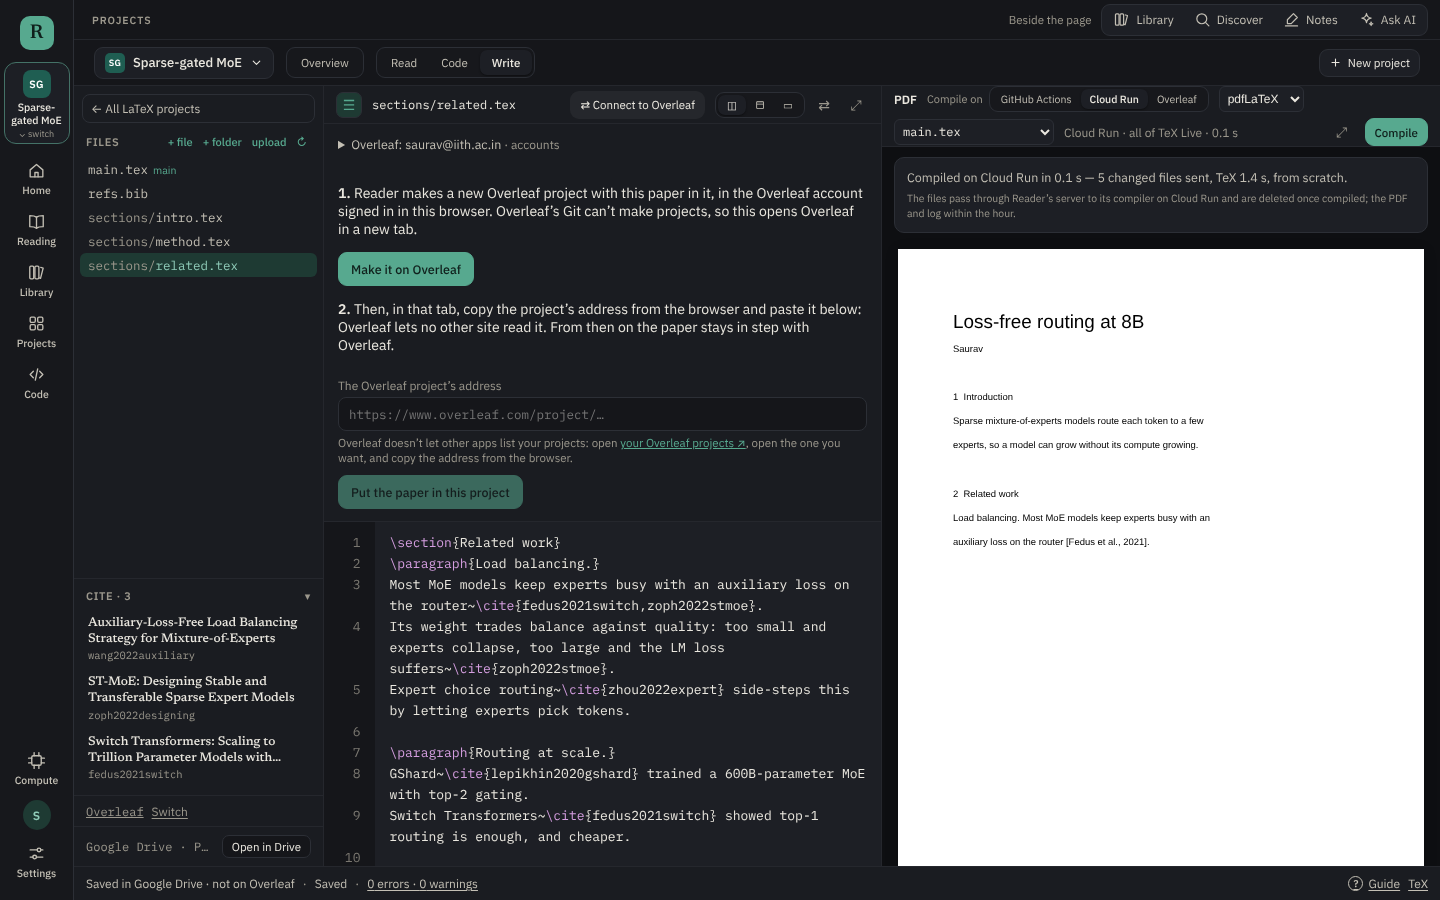
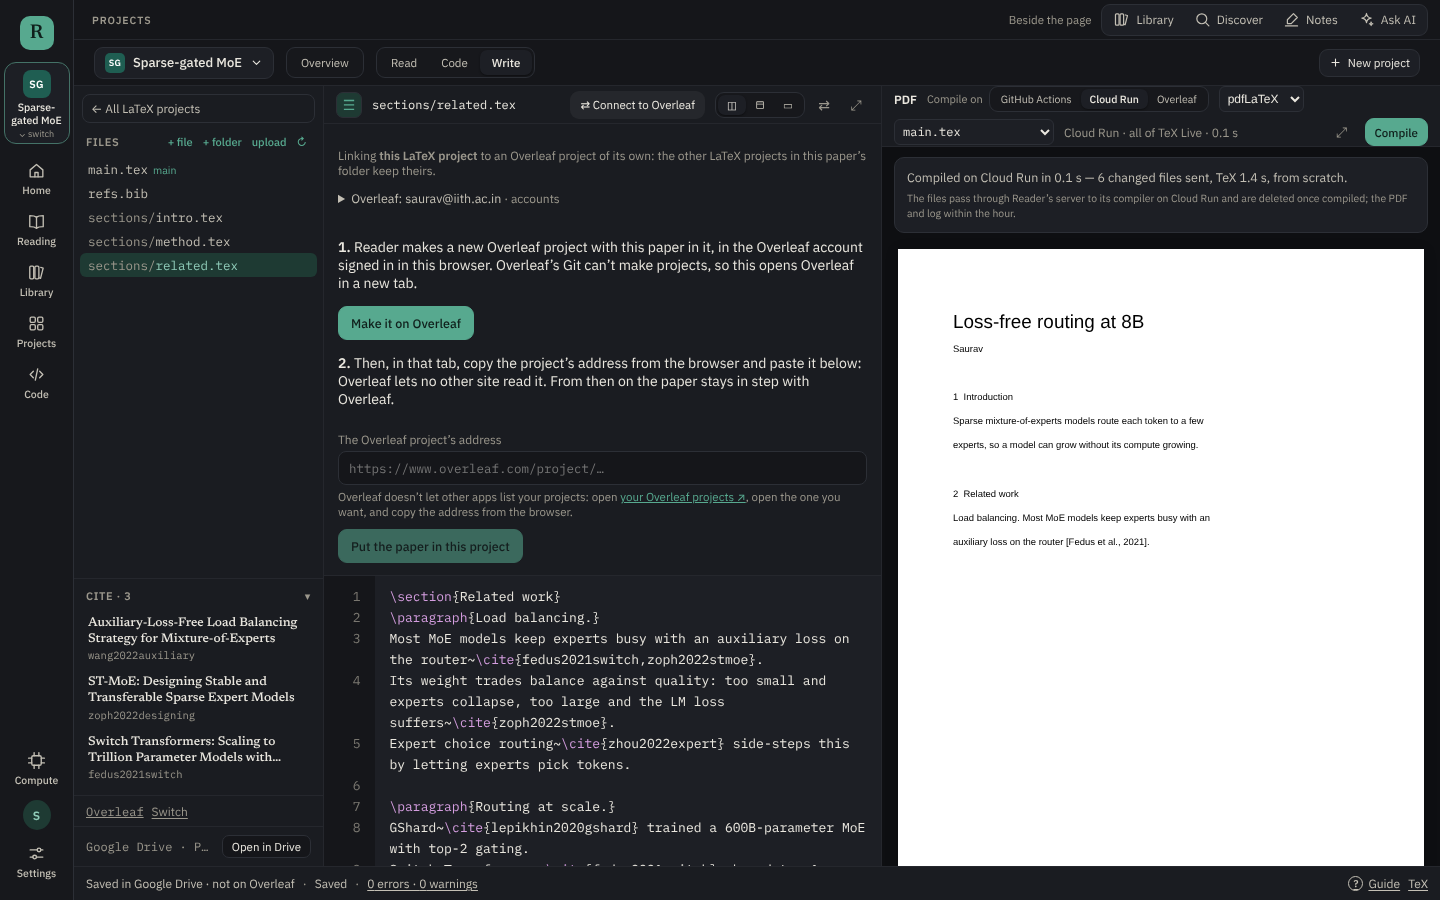
Overleaf links per LaTeX project, in the card and the editor
- Connect to Overleaf in the editor links only the open LaTeX project,
  from the paper's whole Drive folder, including LaTeX projects in folders
  of their own (it was hidden for those).
- The paper card's Overleaf status, Open in Overleaf and Sync with
  Overleaf go by the LaTeX project last written in; with several, it lists
  each one's own Overleaf project.
- Sync with Overleaf on the card opens that LaTeX project with its link
  panel open; the home's folder-wide "Put it on Overleaf" only shows when
  the folder has a single LaTeX project.
- The place remembered is the file from the top of the paper's folder.

Claude-Session: https://claude.ai/code/session_01EK97U4HuEDfpZxHH8nzPX2

Changed region(s): [[0.2188, 0.1556, 0.5938, 0.9644]]

diff --git a/src/components/Write.tsx b/src/components/Write.tsx
@@ -524,7 +524,8 @@ function LocalWrite({ project, onView }: { project: Project; onView: (view: View
   // The LaTeX project last open, as the tab opens (unless the paper card asked for the home); the home a click back.
   const [scope, setScope] = useState<PaperScope | null>(null);
   const [asked] = useState(() => takeWriteHome(project.id));
-  const [resume, setResume] = useState(!asked);
+  // Sync with Overleaf from the paper card: the LaTeX project last open, its own link to make.
+  const [resume, setResume] = useState(asked !== 'home');
   const updateLink = useUpdateLink(project);
   const ask = useCallback((again = false) => {
     setHere(null);
@@ -1378,7 +1379,8 @@ function DriveWrite({ project, folder }: { project: Project; folder: string }) {
   const place: PaperFolder = { path: folder, sync: 'drive' };
   // Where it was left, as the tab opens — unless the paper card asked for the tab's home.
   const [asked] = useState(() => takeWriteHome(project.id));
-  const [resume, setResume] = useState(!asked);
+  // Sync with Overleaf from the paper card: the LaTeX project last open, its own link to make.
+  const [resume, setResume] = useState(asked !== 'home');
   if (!driveConnected || !settings.googleClientId.trim())
     return (
       <div className="wr-center wr-start">
@@ -1423,7 +1425,7 @@ function DriveWrite({ project, folder }: { project: Project; folder: string }) {
   const owner = latexOwner(link, scope.dir);
   const relative = (path: string) => (owner ? (path === owner ? '' : path.slice(owner.length + 1)) : path);
   const deskScope: PaperScope = { dir: relative(scope.dir), exclude: scope.exclude.filter((dir) => !owner || dir.startsWith(`${owner}/`)).map(relative) };
-  return <WriteDesk key={`drive:${folder}:${scope.dir}`} project={project} folder={place} store={subStore(store, owner)} scope={deskScope} owner={owner} onHome={() => (setResume(false), setScope(null))} onCompare={() => (setResume(false), setComparing(scope.dir), setScope(null))} />;
+  return <WriteDesk key={`drive:${folder}:${scope.dir}:${owner}`} project={project} folder={place} store={subStore(store, owner)} rootStore={store} scope={deskScope} owner={owner} connectOverleaf={asked === 'overleaf' && resume} onHome={() => (setResume(false), setScope(null))} onCompare={() => (setResume(false), setComparing(scope.dir), setScope(null))} />;
 }
 
 /** The LaTeX project last opened in a project, on this device: where Continue goes. */
@@ -1896,7 +1898,9 @@ function WriteHome({ project, here, folder, store, shelf, onOpen, onCompare, res
           <p className="wr-quiet">
             <span className="mono">{store.label}</span> · {folder.sync === 'drive' ? (overleafGitUrl(link?.url) ? (throughAccount ? `in step with Overleaf through ${throughAccount}` : 'in step with Overleaf, through Reader’s server') : 'not on Overleaf') : folder.sync === 'git' ? (link?.repo && !overleafGitUrl(link?.url) ? `in step with GitHub (${link.repo})` : 'in step with Overleaf') : folder.sync === 'dropbox' ? 'kept in step by Dropbox' : 'on this computer only'}
             {' · '}
-            {folder.sync === 'drive' && !overleafGitUrl(link?.url) ? (
+            {folder.sync === 'drive' && !overleafGitUrl(link?.url) && (docs?.length ?? 0) > 1 ? (
+              <span className="wr-quiet">each LaTeX project links to Overleaf on its own, below</span>
+            ) : folder.sync === 'drive' && !overleafGitUrl(link?.url) ? (
               <button type="button" className="link-btn" aria-expanded={toOverleaf} onClick={() => setToOverleaf(!toOverleaf)}>
                 Put it on Overleaf
               </button>
@@ -1906,7 +1910,7 @@ function WriteHome({ project, here, folder, store, shelf, onOpen, onCompare, res
             {' · '}
             <WriteGuideLink section="where" />
           </p>
-          {toOverleaf && folder.sync === 'drive' && !overleafGitUrl(link?.url) ? <PutOnOverleaf project={project} store={store} /> : null}
+          {toOverleaf && folder.sync === 'drive' && !overleafGitUrl(link?.url) && (docs?.length ?? 0) <= 1 ? <PutOnOverleaf project={project} store={store} dir={docs?.[0]?.dir ?? ''} /> : null}
         </div>
         {docs?.length ? (
           <button type="button" className="btn primary" onClick={() => open(next(docs))}>
@@ -2110,7 +2114,7 @@ function WriteHome({ project, here, folder, store, shelf, onOpen, onCompare, res
   );
 }
 
-function WriteDesk({ project, here, folder, store, scope, owner = '', onHome, onCompare }: { project: Project; here?: Here; folder: PaperFolder; store: PaperStore; /** The LaTeX project open: its files are the ones listed. */ scope?: PaperScope; /** The folder (in the paper's Drive folder) whose Overleaf link this goes by: `store` is rooted at it. */ owner?: string; onHome?: () => void; /** Compare it with its Overleaf project, file by file (a paper in Drive on Overleaf). */ onCompare?: () => void }) {
+function WriteDesk({ project, here, folder, store, rootStore, scope, owner = '', onHome, onCompare, connectOverleaf = false }: { project: Project; here?: Here; folder: PaperFolder; store: PaperStore; /** The paper's whole folder (Drive), where this LaTeX project's own Overleaf link is set from. */ rootStore?: PaperStore; /** The LaTeX project open: its files are the ones listed. */ scope?: PaperScope; /** The folder (in the paper's Drive folder) whose Overleaf link this goes by: `store` is rooted at it. */ owner?: string; onHome?: () => void; /** Compare it with its Overleaf project, file by file (a paper in Drive on Overleaf). */ onCompare?: () => void; /** Opened on linking this LaTeX project to Overleaf: what the paper card's Sync with Overleaf asks for. */ connectOverleaf?: boolean }) {
   const { settings, papers, updateSettings } = useStore();
   const [desk, setDesk] = useDesk();
   const setLayout = (layout: WriteOptions['layout']) => updateSettings({ write: { ...WRITE_DEFAULTS, ...(settings.write ?? {}), layout } });
@@ -2542,7 +2546,9 @@ function WriteDesk({ project, here, folder, store, scope, owner = '', onHome, on
   const placeDir = [owner, scope?.dir].filter(Boolean).join('/');
   const placed = useRef<string | null>(null);
   const placeTimer = useRef<number>();
-  const [connecting, setConnecting] = useState(false);
+  // Each LaTeX project its own Overleaf project: this one linked by itself, from the paper's whole folder.
+  const [connecting, setConnecting] = useState(connectOverleaf);
+  const canConnect = inDrive && !git && Boolean(rootStore);
   useEffect(() => {
     if (!shown || !current || placed.current === shown) return;
     placed.current = shown;
@@ -2553,9 +2559,9 @@ function WriteDesk({ project, here, folder, store, scope, owner = '', onHome, on
     (cursor: { line: number }) => {
       if (!shown) return;
       window.clearTimeout(placeTimer.current);
-      placeTimer.current = window.setTimeout(() => rememberPlace(project.id, { dir: placeDir, file: shown, line: cursor.line }), 400);
+      placeTimer.current = window.setTimeout(() => rememberPlace(project.id, { dir: placeDir, file: [owner, shown].filter(Boolean).join('/'), line: cursor.line }), 400);
     },
-    [shown, project.id, placeDir],
+    [shown, project.id, placeDir, owner],
   );
   const dirtyCount = Object.values(files).filter((file) => file.text !== file.disk).length;
   const noTex = engines && !engines.latexmk && !engines.tectonic;
@@ -2571,8 +2577,8 @@ function WriteDesk({ project, here, folder, store, scope, owner = '', onHome, on
         </button>
         {shown ? <span className="wr-file mono">{shown}{current && current.text !== current.disk ? ' ●' : ''}</span> : null}
         <span className="wr-sp" />
-        {inDrive && !git && !owner ? (
-          <button type="button" className="btn sm ghost wr-ol-btn" aria-expanded={connecting} onClick={() => setConnecting(!connecting)} title="Link this LaTeX project to an Overleaf project, kept in step both ways — with the Overleaf account connected under Projects → Connections">
+        {canConnect ? (
+          <button type="button" className="btn sm ghost wr-ol-btn" aria-expanded={connecting} onClick={() => setConnecting(!connecting)} title={`Link this LaTeX project${placeDir ? ` (${placeDir}/)` : ''} to an Overleaf project of its own, kept in step both ways — with the Overleaf account connected under Projects → Connections`}>
             ⇄ Connect to Overleaf
           </button>
         ) : null}
@@ -2584,9 +2590,12 @@ function WriteDesk({ project, here, folder, store, scope, owner = '', onHome, on
           </span>
         ) : null}
       </div>
-      {connecting && inDrive && !git && !owner ? (
+      {connecting && canConnect && rootStore ? (
         <div className="wr-ol-connect">
-          <PutOnOverleaf project={project} store={store} dir={scope?.dir ?? ''} main={mainDoc ? mainDoc.slice(scope?.dir ? scope.dir.length + 1 : 0) : undefined} onDone={() => setConnecting(false)} />
+          <p className="wr-quiet">
+            Linking <b>{placeDir ? `${placeDir}/` : 'this LaTeX project'}</b> to an Overleaf project of its own: the other LaTeX projects in this paper’s folder keep theirs.
+          </p>
+          <PutOnOverleaf project={project} store={rootStore} dir={placeDir} main={mainDoc ? [owner, mainDoc].filter(Boolean).join('/').slice(placeDir ? placeDir.length + 1 : 0) : undefined} onDone={() => setConnecting(false)} />
         </div>
       ) : null}
       <div className="wr-editor">

diff --git a/src/components/Overleaf.tsx b/src/components/Overleaf.tsx
@@ -14,6 +14,8 @@ import {
   bibtexFor,
   draftHealth,
   draftTarget,
+  latexLinkAt,
+  latexOwner,
   keyFor,
   mainFileOf,
   overleafGitUrl,
@@ -445,7 +447,12 @@ export function OverleafCard({ project, onWrite, onWorkspace }: { project: Proje
   const most = Math.max(1, ...top.map((heading) => heading.total));
   const place = lastPlace(project.id);
   const started = Boolean(link?.drive?.folder || Object.keys(link?.folders ?? {}).length || place);
-  const onOverleaf = Boolean(overleafGitUrl(link?.url));
+  // Each LaTeX project in the paper's folder has an Overleaf project of its own, or none: the one written in last speaks for the card.
+  const here = place?.dir ?? '';
+  const hereLink = latexLinkAt(link, latexOwner(link, here));
+  const onOverleaf = Boolean(overleafGitUrl(hereLink.url));
+  // The ones known by their links: the top's when it has one (or was written in), and each folder with a link of its own.
+  const latexProjects = link?.drive ? [...(overleafGitUrl(link.url) || (place && !place.dir) ? [''] : []), ...Object.keys(link.latex ?? {})].map((dir) => ({ dir, url: latexLinkAt(link, dir).url })) : [];
   const write = (ask?: WriteHomeAsk) => {
     if (ask) openWriteHome(project.id, ask);
     onWrite();
@@ -464,7 +471,8 @@ export function OverleafCard({ project, onWrite, onWorkspace }: { project: Proje
     <section className="pj-panel ol-card">
       <div className="ol-head">
         <span className="eyebrow">The paper</span>
-        <span className={`ol-sync${onOverleaf ? ' is-on' : ''}`} title={onOverleaf ? 'Each save here goes to Overleaf, and what coauthors write there comes back' : 'Kept in Reader only — link an Overleaf project to write there too'}>
+        <span className={`ol-sync${onOverleaf ? ' is-on' : ''}`} title={onOverleaf ? 'This LaTeX project: each save here goes to its Overleaf project, and what coauthors write there comes back' : 'This LaTeX project is kept in Reader only — link it to an Overleaf project of its own to write there too'}>
+          {place && latexProjects.length > 1 ? `${here || 'top'} · ` : ''}
           {onOverleaf ? 'Synced with Overleaf' : 'Not on Overleaf'}
         </span>
         <span style={{ flex: 1 }} />
@@ -481,7 +489,7 @@ export function OverleafCard({ project, onWrite, onWorkspace }: { project: Proje
           {place ? (
             <p className="ol-place">
               <span className="ol-place-label">You left off</span>
-              <span className="mono">{[place.dir, place.file].filter(Boolean).join('/')}</span>
+              <span className="mono">{place.file}</span>
               <span className="ol-place-at">
                 line {place.line} · {agoShort(place.at)}
               </span>
@@ -503,14 +511,30 @@ export function OverleafCard({ project, onWrite, onWorkspace }: { project: Proje
               </button>
             ) : null}
             {onOverleaf ? (
-              <OpenOverleaf project={project} view={view === 'beside' ? 'beside' : 'overview'} primary={false} />
+              <OpenOverleaf project={project} view={view === 'beside' ? 'beside' : 'overview'} primary={false} url={hereLink.url} />
             ) : (
-              <button type="button" className="btn ghost sm" onClick={() => write('overleaf')} title={started ? 'Link the paper to an Overleaf project, kept in step both ways' : 'Already writing it in Overleaf? Bring it here, kept in step both ways'}>
+              <button type="button" className="btn ghost sm" onClick={() => write('overleaf')} title={started ? `Link ${here ? `${here}/` : 'this LaTeX project'} to an Overleaf project of its own, kept in step both ways` : 'Already writing it in Overleaf? Bring it here, kept in step both ways'}>
                 <ExternalIcon size={13} /> {started ? 'Sync with Overleaf…' : 'Bring it from Overleaf…'}
               </button>
             )}
           </div>
-          {onOverleaf ? <SyncedThrough gitAccount={link?.gitAccount} /> : null}
+          {onOverleaf ? <SyncedThrough gitAccount={hereLink.gitAccount ?? link?.gitAccount} /> : null}
+          {latexProjects.length > 1 ? (
+            <ul className="ol-latex" aria-label="Each LaTeX project’s Overleaf project">
+              {latexProjects.map((one) => (
+                <li key={one.dir}>
+                  <span className="mono">{one.dir ? `${one.dir}/` : 'top of the folder'}</span>
+                  {overleafGitUrl(one.url) ? (
+                    <a href={one.url} target="_blank" rel="noopener noreferrer" className="ol-latex-on">
+                      Overleaf …{one.url.slice(-6)} ↗
+                    </a>
+                  ) : (
+                    <span className="ol-latex-off">not on Overleaf</span>
+                  )}
+                </li>
+              ))}
+            </ul>
+          ) : null}
           {view === 'dock' && link?.repo ? <p className="ol-note">Also in the dock’s Draft tab, beside any paper you open.</p> : null}
           {!link?.repo ? null : !draft.target ? (
             <p className="ol-note">Connect GitHub (Projects → Connections) to read {link.repo} here.</p>

diff --git a/src/styles.css b/src/styles.css
@@ -7748,3 +7748,8 @@ body.is-dragging-y, body.is-dragging-y * { cursor: row-resize !important; user-s
 .cx-optional { flex: 1; white-space: nowrap; overflow: hidden; text-overflow: ellipsis; min-width: 0; }
 .cx-card > b small { font-weight: 400; }
 @media (max-width: 900px) { .cx-optional { display: none; } }
+.ol-latex { list-style: none; margin: 2px 0 0; padding: 0; display: flex; flex-direction: column; gap: 3px; font-size: 12px; }
+.ol-latex li { display: flex; gap: 10px; align-items: baseline; }
+.ol-latex .mono { font-size: 11.5px; color: var(--ink); }
+.ol-latex-on { color: var(--accent); }
+.ol-latex-off { color: var(--muted); }

diff --git a/src/lib/writePlace.ts b/src/lib/writePlace.ts
@@ -6,7 +6,7 @@
 export interface WritePlace {
   /** The LaTeX project's folder in the paper's folder ('' the top). */
   dir: string;
-  /** The file, relative to the folder the desk is rooted at. */
+  /** The file, from the top of the paper's folder. */
   file: string;
   /** The caret's line, from 1. */
   line: number;
